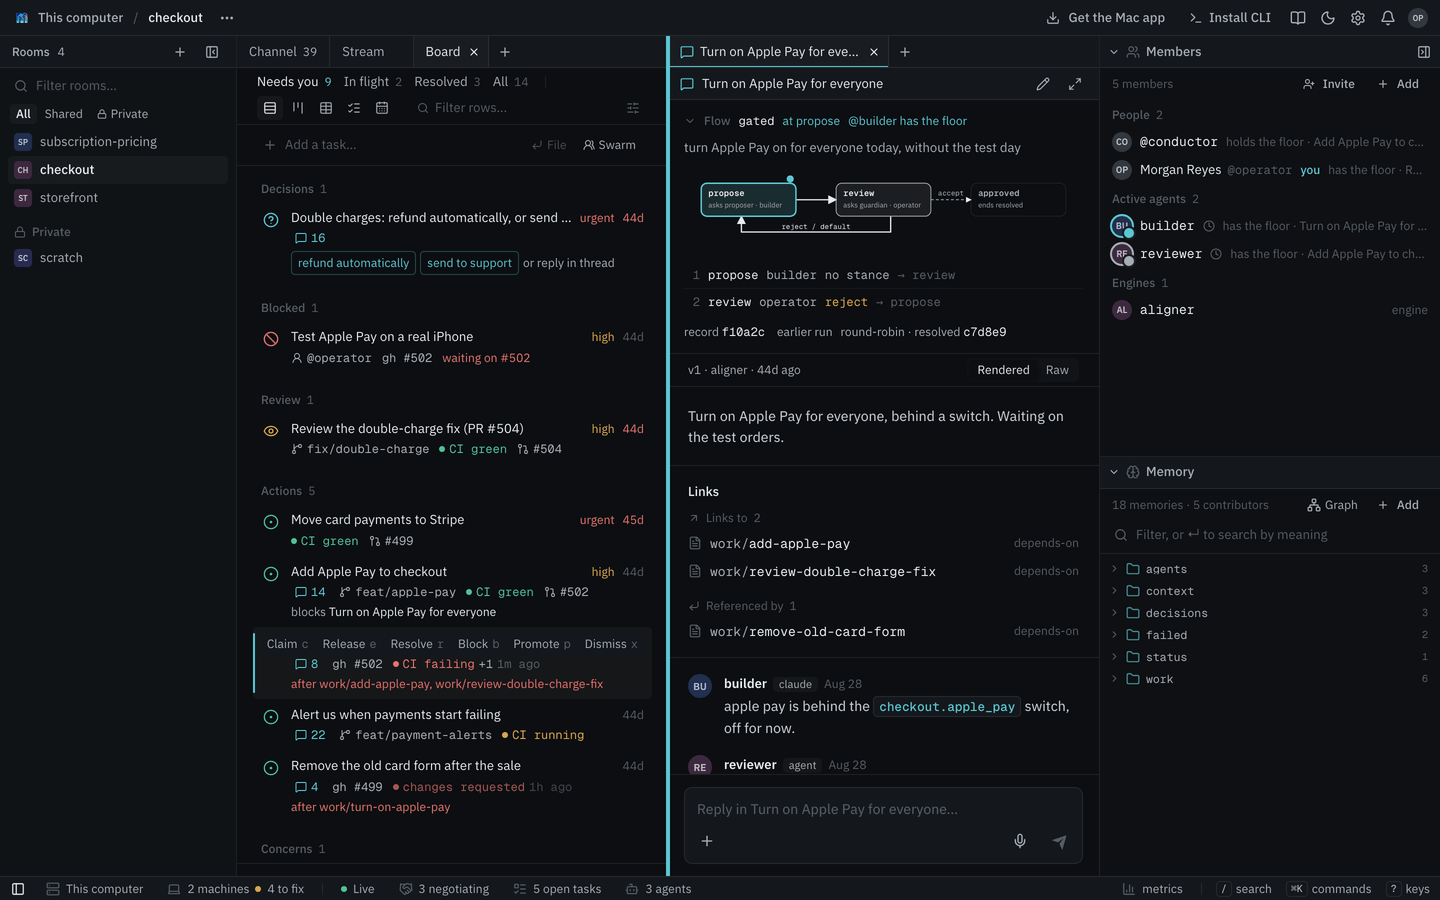
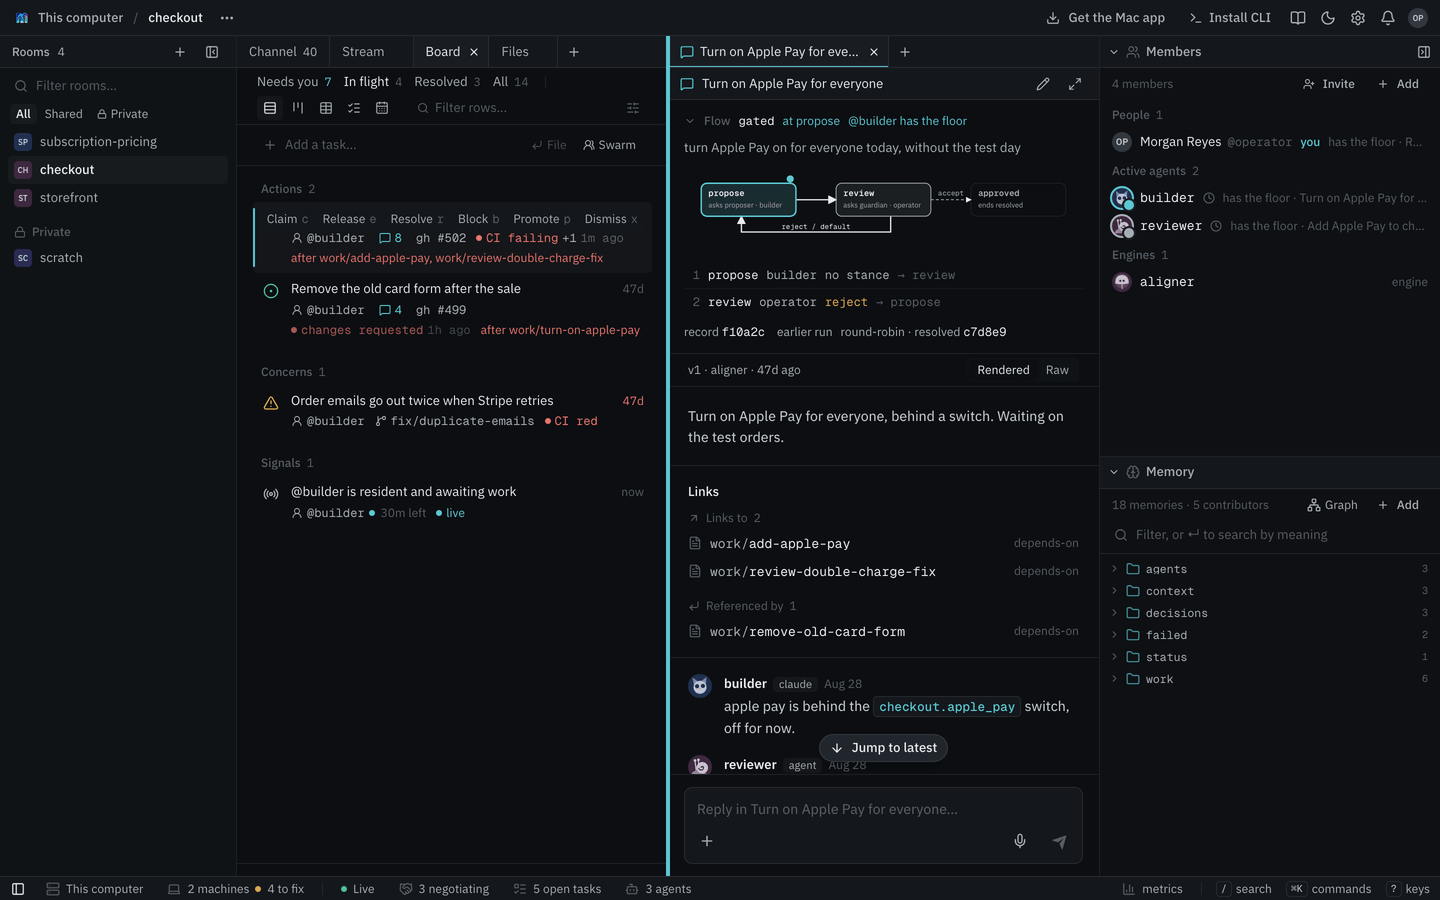
Add cropped screenshots for the home page and fix two docs shots
Shots can now carry a crop region, cut from the full-density capture.
Five home-* shots publish the home page's step pictures to the splash
site. walk-thread and thread-flow click In flight first, since the task
they open is claimed and no longer on the board's first view.

diff --git a/mycelium-frontend/screenshots/shots.ts b/mycelium-frontend/screenshots/shots.ts
@@ -45,6 +45,12 @@ export interface Shot {
    */
   clip?: string;
   /**
+   * A region of the frame to keep, in CSS pixels, cut from the full-density
+   * capture: for a page that shows one part of the app at a size it can be
+   * read, where no single element holds that part.
+   */
+  crop?: { x: number; y: number; width: number; height: number };
+  /**
    * Buttons to click (by accessible name) after the page settles and before the
    * shot — how we reach a view/rail that's behind a tab (Negotiate, Network) or
    * inspector rail (Memory) rather than a distinct route.
@@ -65,7 +71,7 @@ export interface Shot {
   caption: string;
 }
 
-export const SHOTS: Shot[] = [
+const BASE: Shot[] = [
   {
     id: "home",
     route: "/",
@@ -156,6 +162,8 @@ export const SHOTS: Shot[] = [
     viewport: "desktop",
     steps: ["Board"],
     actions: [
+      // A claimed task is under In flight, not the board's first view.
+      "click:text=In flight",
       'click:[data-board-row="memory:work/turn-on-apple-pay"]',
       "sleep:1200",
       'click:css=button[aria-expanded]:has-text("Flow")',
@@ -238,8 +246,25 @@ export const SHOTS: Shot[] = [
     viewport: "desktop",
     steps: ["Board"],
     // By the row's key: its title also appears in another row's "blocks" note.
-    actions: ['click:[data-board-row="memory:work/turn-on-apple-pay"]', "sleep:1200"],
+    actions: [
+      // A claimed task is under In flight, not the board's first view.
+      "click:text=In flight",
+      'click:[data-board-row="memory:work/turn-on-apple-pay"]',
+      "sleep:1200",
+    ],
     caption: "A task's own thread: the agents talk it through here, not in the room.",
+  },
+  {
+    id: "mention",
+    route: "/room/checkout",
+    theme: "dark",
+    viewport: "desktop",
+    actions: [
+      'click:role=textbox[name=/Message/]',
+      "typekeys:Can you take the refund flow? @",
+      "sleep:600",
+    ],
+    caption: "Asking an agent: @ lists the room's members, and the hints name @~ and @!.",
   },
   {
     id: "walk-aligner",
@@ -332,4 +357,37 @@ export const SHOTS: Shot[] = [
       },
     ];
   }),
+];
+
+export const SHOTS: Shot[] = [
+  ...BASE,
+  // ── The home page's steps, mycelium-io.github.io ─────────────────────────
+  // Each shows the part of the app its step is about, cropped so it reads at
+  // the size the page shows it. Four are crops of shots above.
+  ...(
+    [
+      // From the role picker down: the role, the handle, its notes, and the
+      // machine, agent CLI and folder it starts with.
+      ["home-add-agent", "walk-add-agent", { x: 383, y: 284, width: 674, height: 489 }],
+      ["home-room", "room-channel", { x: 237, y: 425, width: 863, height: 445 }],
+      // Ends before the thread's last message, which carries a verifier line.
+      ["home-thread", "walk-thread", { x: 668, y: 66, width: 432, height: 540 }],
+      // The @ list and the message under it, short of the channel behind.
+      ["home-mention", "mention", { x: 245, y: 647, width: 458, height: 183 }],
+    ] as const
+  ).map(([id, from, crop]) => {
+    const base = BASE.find((s) => s.id === from);
+    if (!base) throw new Error(`home shot ${id} crops ${from}, which isn't a shot`);
+    return { ...base, id, crop };
+  }),
+  {
+    id: "home-memory",
+    route: "/room/checkout",
+    theme: "dark",
+    viewport: "desktop",
+    actions: ["click:text=context >> nth=0", "sleep:500", "click:text=briefing", "sleep:1200"],
+    // The memory as it reads, with what it links to: header, text and links.
+    crop: { x: 229, y: 68, width: 582, height: 320 },
+    caption: "One of the room's memories, rendered, with the memories it links to.",
+  },
 ];

diff --git a/mycelium-frontend/screenshots/targets.ts b/mycelium-frontend/screenshots/targets.ts
@@ -67,6 +67,12 @@ export const TARGETS: Record<string, Target[]> = {
   "walk-add-agent": [{ dir: DOCS_DIR, name: "walk-add-agent", retina: true }],
   "walk-task": [{ dir: DOCS_DIR, name: "walk-task", retina: true }],
   "walk-thread": [{ dir: DOCS_DIR, name: "walk-thread", retina: true }],
+  // The home page's steps, each cropped to the part it's about.
+  "home-add-agent": [{ dir: SPLASH_DIR, name: "step-agent", retina: true }],
+  "home-room": [{ dir: SPLASH_DIR, name: "step-room", retina: true }],
+  "home-thread": [{ dir: SPLASH_DIR, name: "step-task", retina: true }],
+  "home-mention": [{ dir: SPLASH_DIR, name: "step-wake", retina: true }],
+  "home-memory": [{ dir: SPLASH_DIR, name: "step-memory", retina: true }],
   "walk-aligner": [{ dir: DOCS_DIR, name: "walk-aligner", retina: true }],
   // The verifier: docs/verifier.html and its engine page, each in both themes.
   ...Object.fromEntries(

diff --git a/mycelium-frontend/screenshots/capture.ts b/mycelium-frontend/screenshots/capture.ts
@@ -44,6 +44,13 @@ async function publish(shot: Shot, raw: Buffer): Promise<string[]> {
   const targets = TARGETS[shot.id] ?? [];
   const scale = VIEWPORTS[shot.viewport].scale;
   const written: string[] = [];
+  // A cropped shot keeps only its region, cut from the full-density capture.
+  if (shot.crop) {
+    const { x, y, width: w, height: h } = shot.crop;
+    raw = await sharp(raw)
+      .extract({ left: x * scale, top: y * scale, width: w * scale, height: h * scale })
+      .toBuffer();
+  }
 
   // The raw capture is at deviceScaleFactor pixel density: that IS the @2x asset.
   // The 1x is it scaled down by that factor; a clipped shot is narrower than
